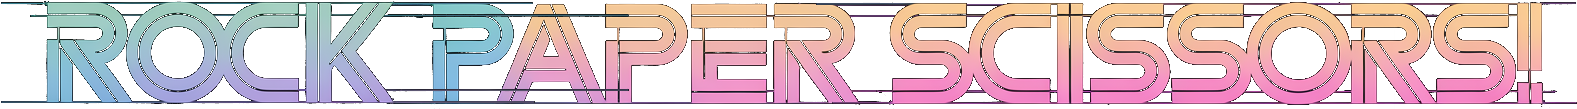
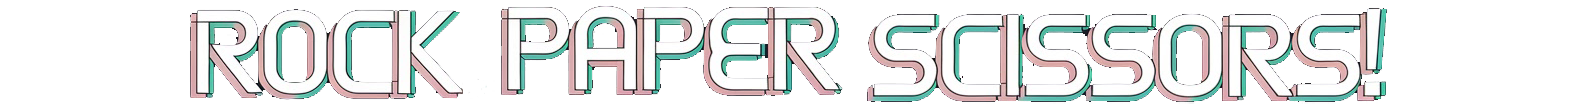
TITTLE

diff --git a/style.css b/style.css
@@ -81,7 +81,7 @@ button:hover {
 }
 #tittle{
     margin-top: 15px;
-width: 48vh;
+width: 55vh;
 height: 50px;
 background-image:url("images/tittle.png");
 background-size: contain;
